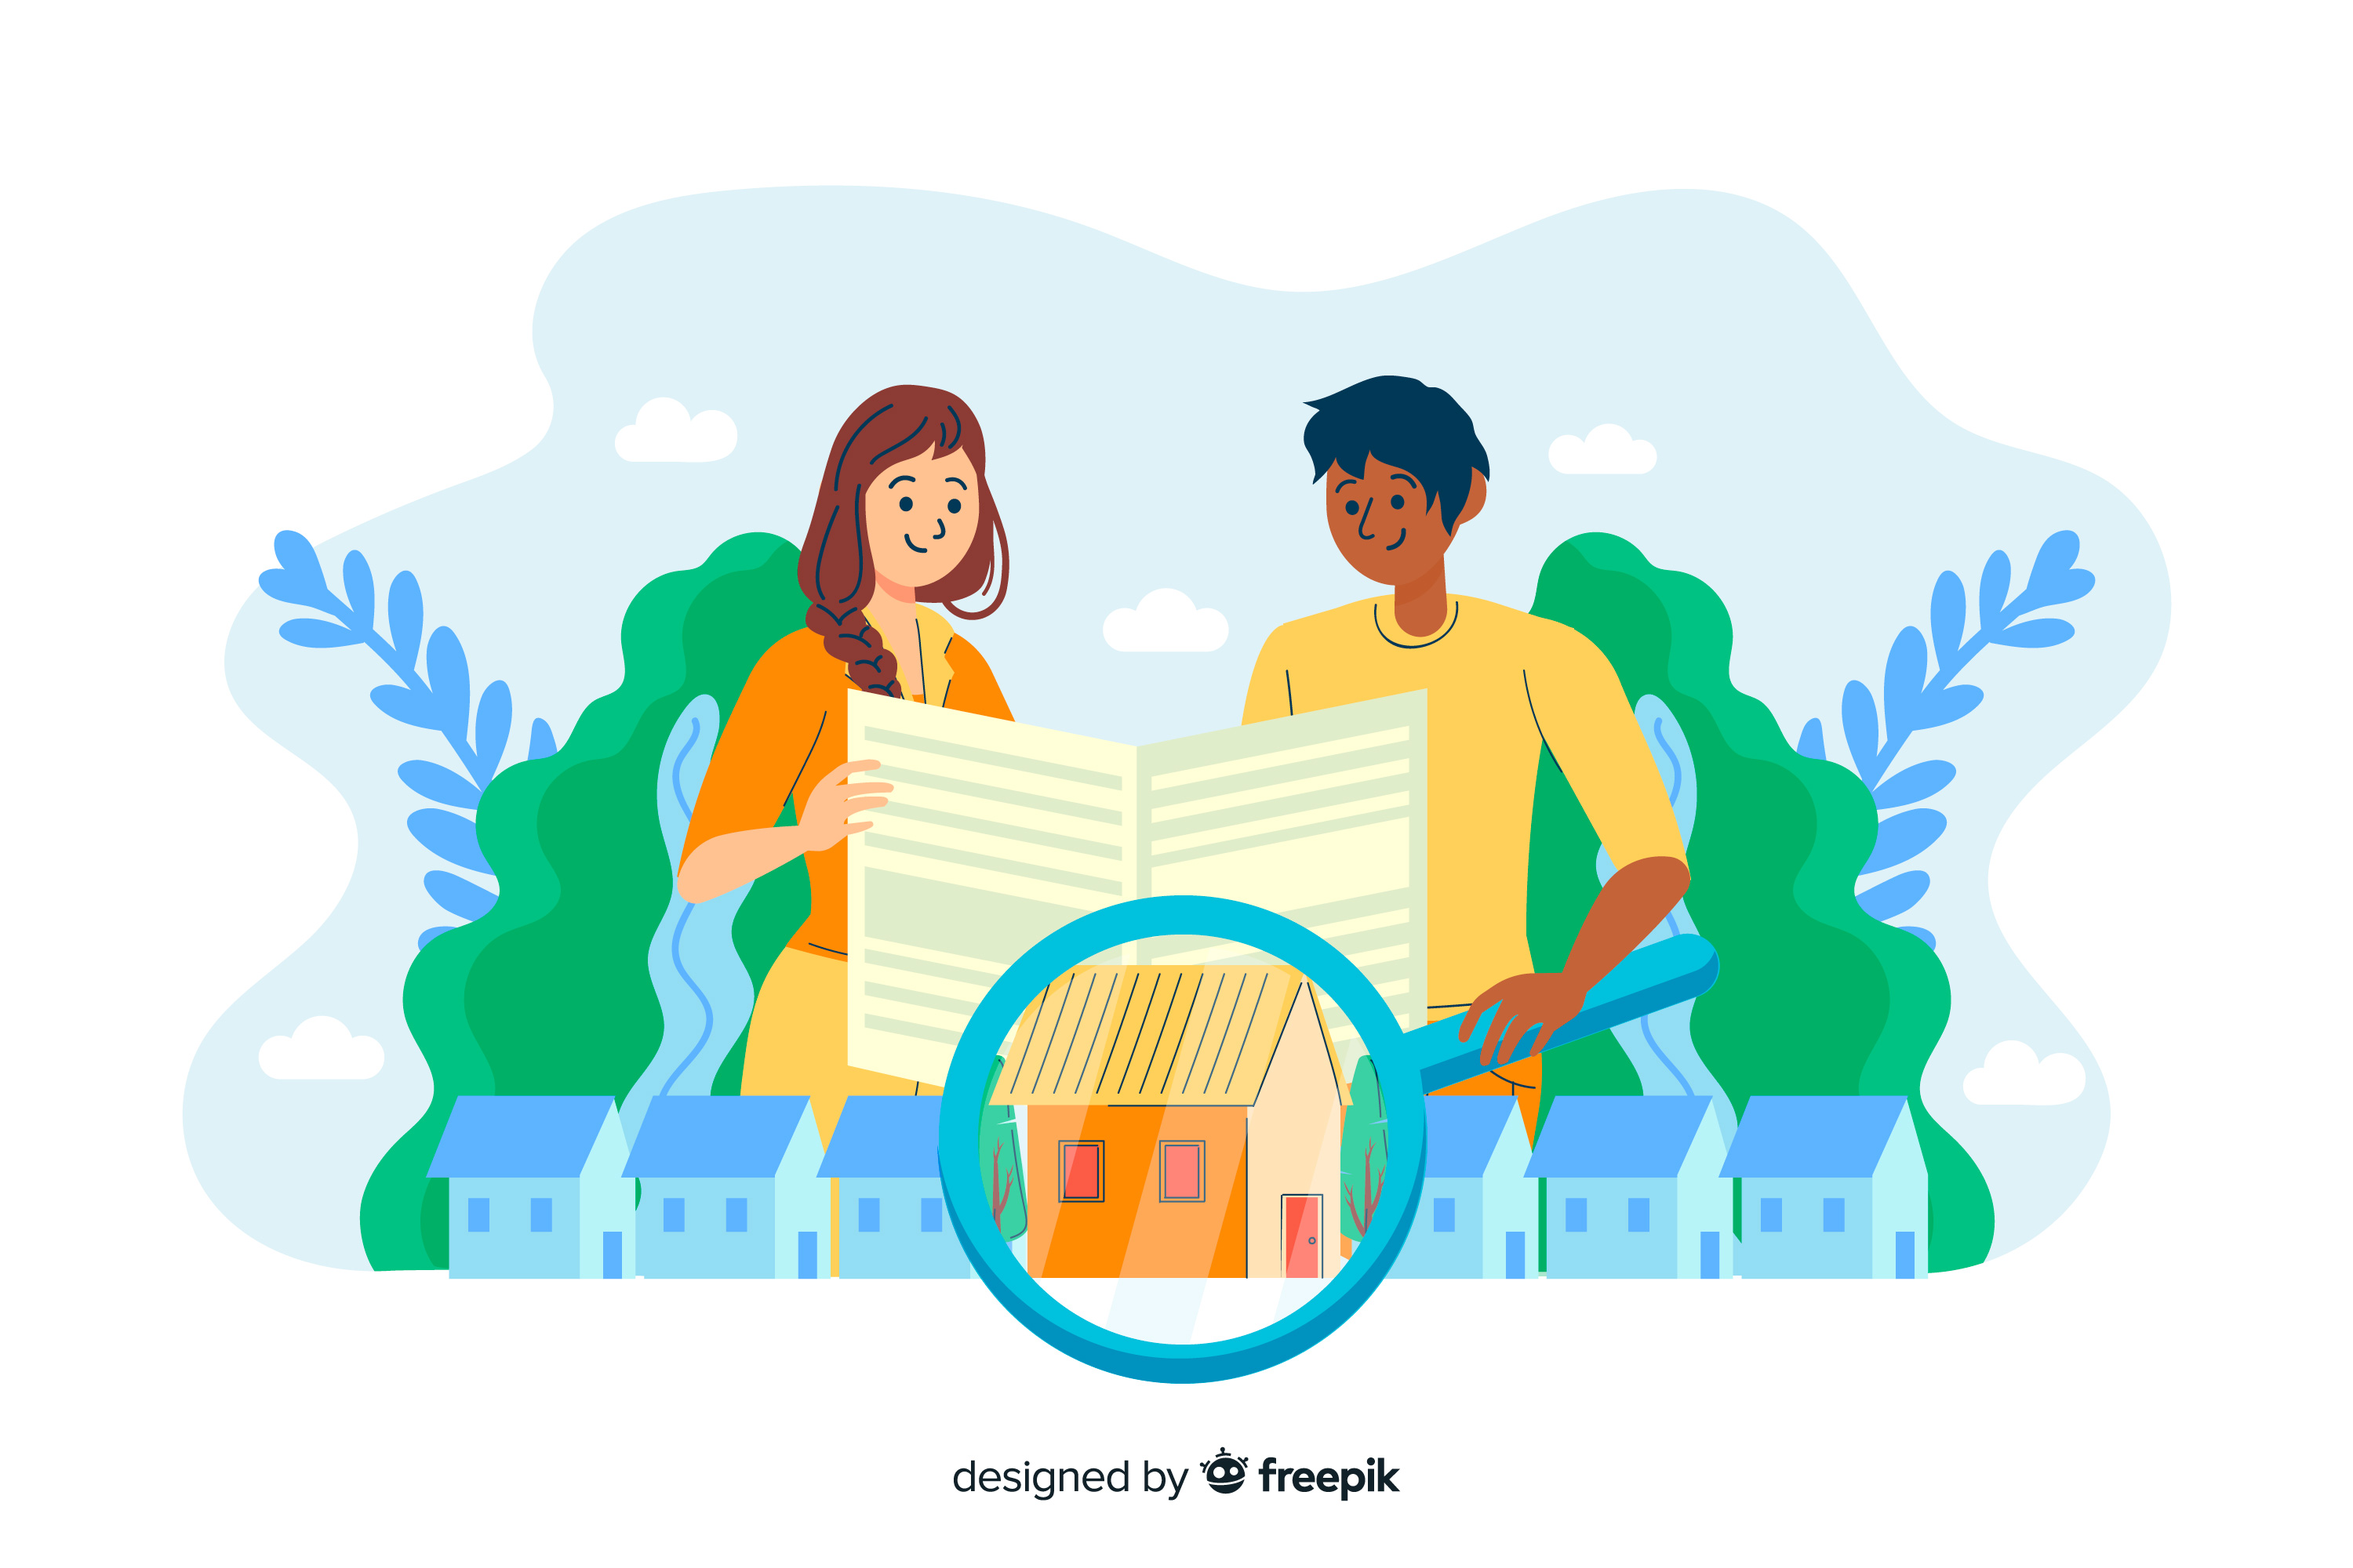
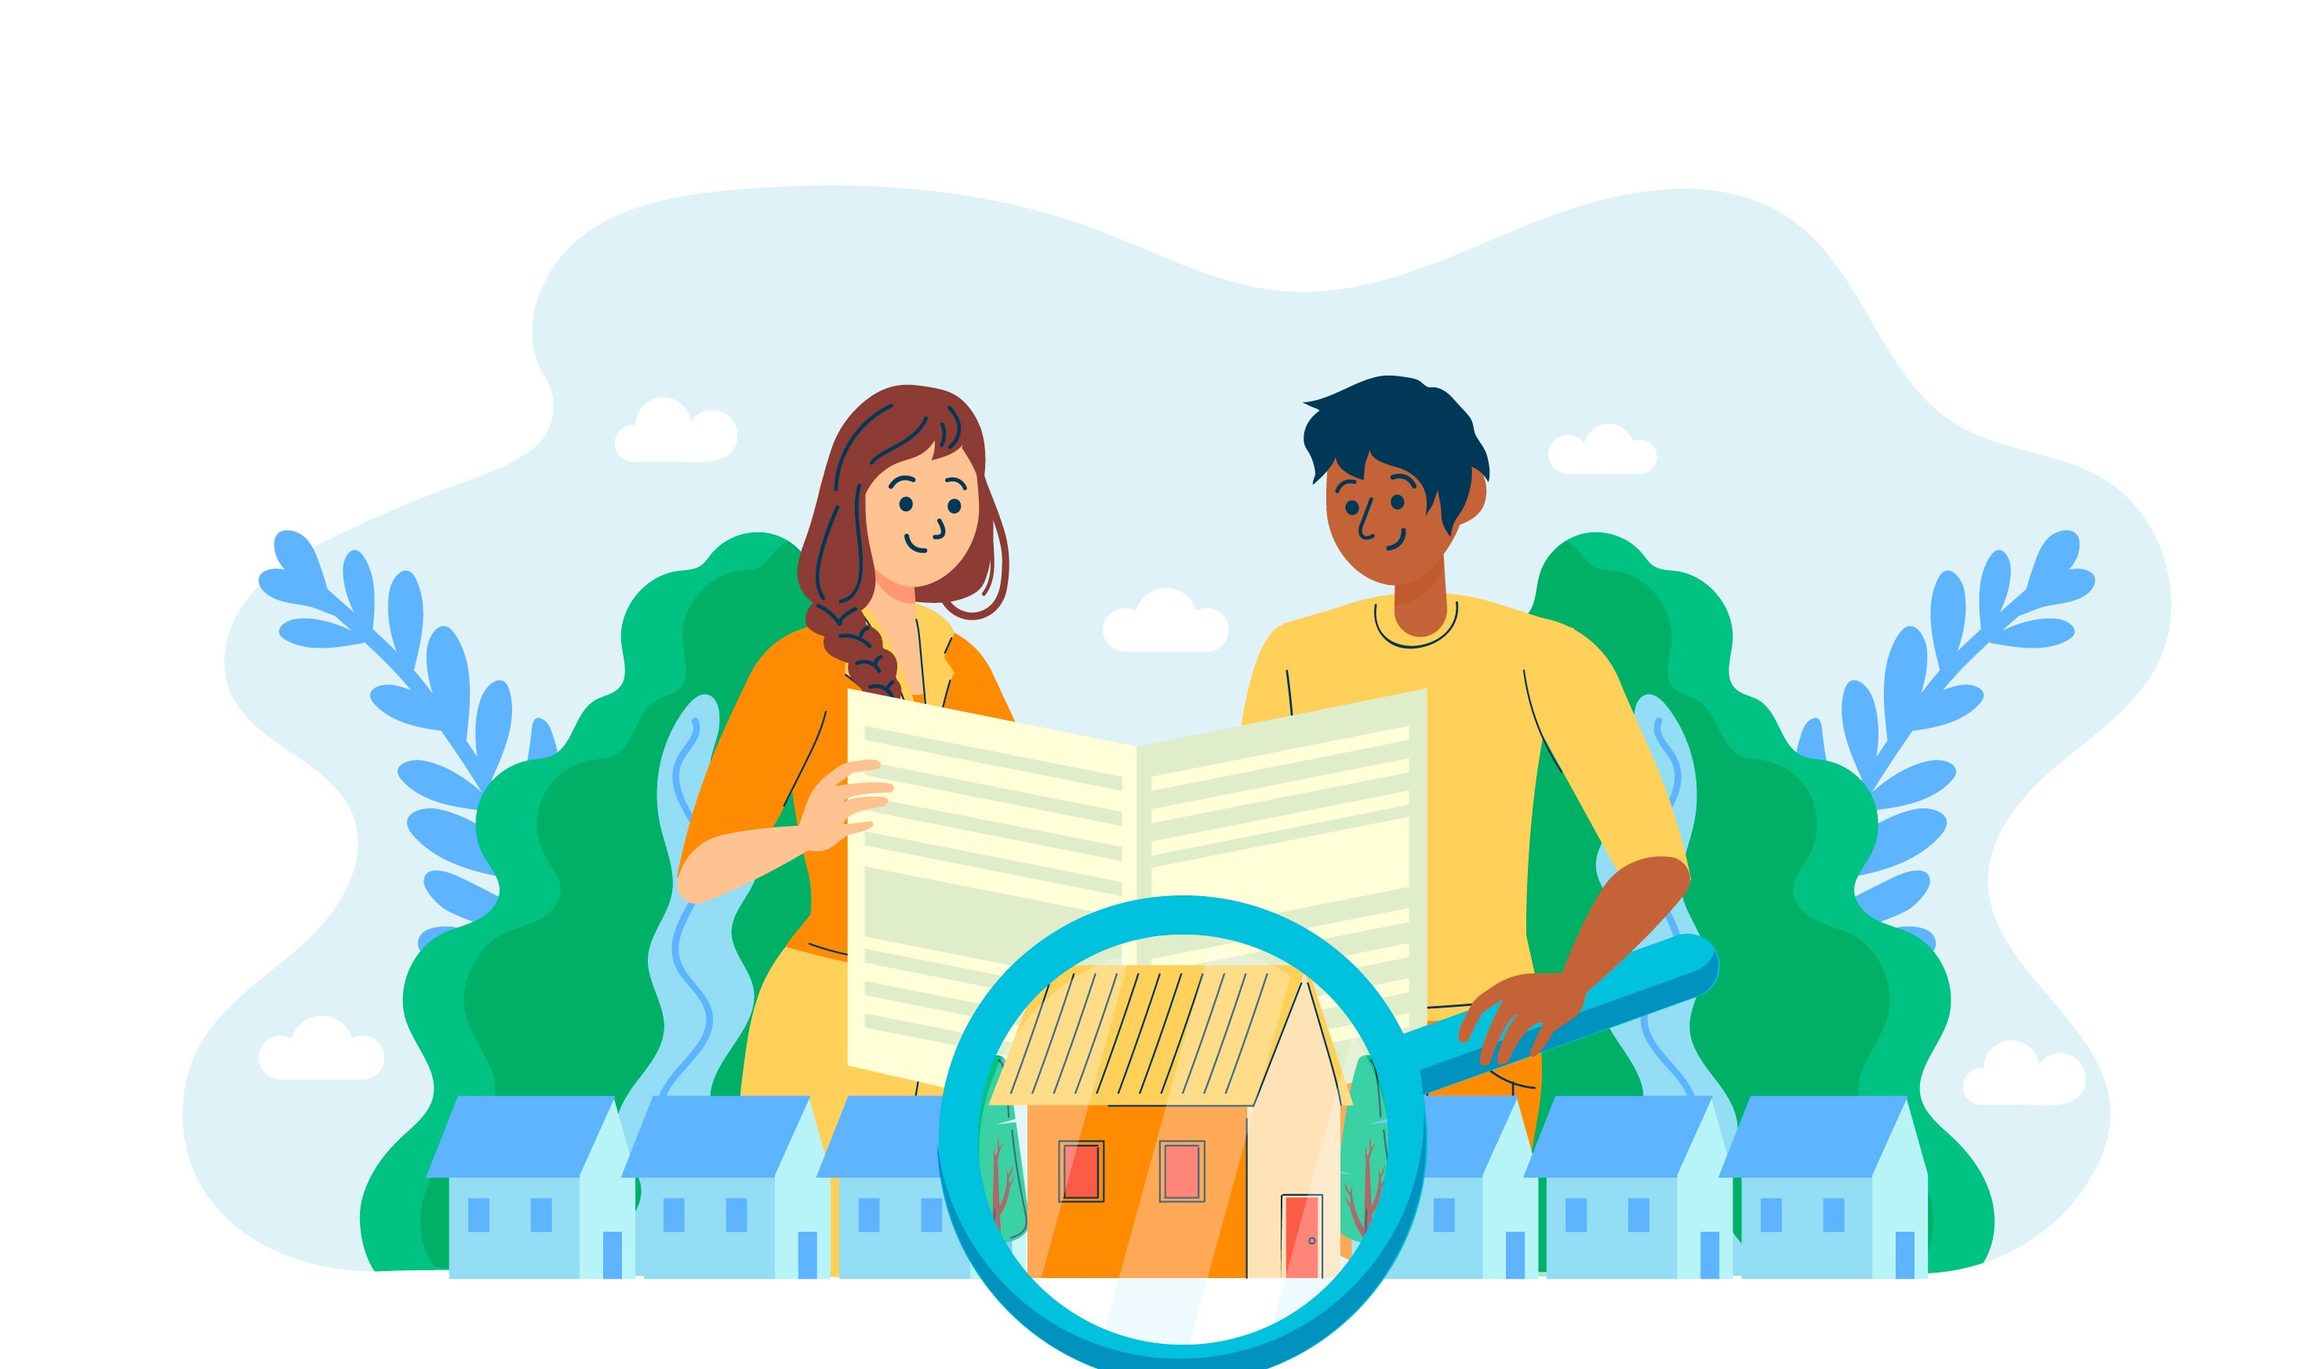
Payhere added again

diff --git a/app/controllers/Books.php b/app/controllers/Books.php
@@ -57,7 +57,83 @@ class Books extends Controller
         $this->view('books/v_booktoken', $data);
 
     }
+    public function tokenpayment(){
+        $data = [];
+        $this->view('books/v_booktokenpay', $data);
+
+    }
    
+    public function payherenotify() {
+        if ($_SERVER['REQUEST_METHOD'] === 'POST') {
+            try {
+                // Initialize payments model
+                $paymentModel = $this->model('M_Payments');
+    
+                // Retrieve and sanitize data
+                $paymentData = [
+                    'merchant_id' => trim($_POST["merchant_id"] ?? ''),
+                    'order_id' => trim($_POST["order_id"] ?? ''),
+                    'user_id' => trim($_POST["user_id"] ?? ''),
+                    'payment_id' => trim($_POST["payment_id"] ?? ''),
+                    'amount' => (float)($_POST["payhere_amount"] ?? 0),
+                    'currency' => trim($_POST["payhere_currency"] ?? 'LKR'),
+                    'status_code' => (int)($_POST["status_code"] ?? 0),
+                    'status' => trim($_POST["status"] ?? 'Pending'),
+                    'md5sig' => trim($_POST["md5sig"] ?? '')
+                ];
+    
+                // Get merchant secret from model
+                $merchantSecret = $paymentModel->getMerchantSecret();
+    
+                // Validate hash
+                $localHash = $this->generatePayhereHash(
+                    $paymentData['merchant_id'],
+                    $paymentData['order_id'],
+                    $paymentData['amount'],
+                    $paymentData['currency'],
+                    $paymentData['status_code'], // Include status code
+                    
+                );
+    
+                if ($this->validateSignature($localHash, $paymentData['md5sig'])) {
+                    if ($paymentData['status_code'] === 2) {
+                        $paymentRecord = [
+                            'order_id' => $paymentData['order_id'],
+                            'payment_id' => $paymentData['payment_id'],
+                            'user_id' => $paymentData['user_id'],
+                            'amount' => $paymentData['amount'],
+                            'currency' => $paymentData['currency'],
+                            'status' => $paymentData['status']
+                        ];
+
+                    }
+                    http_response_code(200);
+                } else {
+                    error_log("Hash mismatch. Received: {$paymentData['md5sig']} | Calculated: $localHash");
+                    http_response_code(403);
+                }
+            } catch (Exception $e) {
+                error_log("Payment error: " . $e->getMessage());
+                http_response_code(500);
+            }
+        } else {
+            http_response_code(405);
+        }
+    }
+    
+    private function generatePayhereHash($merchant_id, $order_id, $amount, $currency, $merchant_secret) {
+        return strtoupper(md5(
+            $merchant_id .
+            $order_id .
+            number_format($amount, 2, '.', '') .
+            $currency .
+            strtoupper(md5($merchant_secret))
+        ));
+    }
+    
+    private function validateSignature($generated, $received) {
+        return hash_equals($generated, $received);
+    }
     
     
     public function create()

diff --git a/app/views/books/v_booktokenpay.php b/app/views/books/v_booktokenpay.php
@@ -1,47 +1,51 @@
-<?php require APPROOT . '/views/inc/header.php'; ?>
-<!--TOP NAV BAR-->
-<?php require APPROOT . '/views/inc/components/topnavbar.php'; ?>
-
 <?php
-if (!isset($_SESSION['user_role'])) {
-    die("Please login");
+
+// Check if user is a logged-in parent
+if (!isset($_SESSION['user_role']) || $_SESSION['user_role'] !== 'parent') {
+    die("Access denied! You do not have permission to view this page.");
 }
+
+// Retrieve user details from session
+$merchant_id = "1230183";
+$merchant_secret = "MTMyNjg4MjE4NjI0OTYwOTkzNjIxMTE2OTQ2NDUyMTA2NTg2NDY0NQ==";
+
+// Retrieve parent/user details from session
+$order_id = uniqid();
+$user_id=$_SESSION['user_id'] ?? '';
+$amount = 200.00;
+$currency = "LKR";
+$items = "Token";
+$name = $_SESSION['user_name'] ?? '';
+$email = $_SESSION['user_email'] ?? '';
+$phone = $_SESSION['user_phone'] ?? '';
+$address = $_SESSION['user_address'] ?? '';
+
+// Generate hash (using session data)
+$hash = strtoupper(
+    md5(
+        $merchant_id .
+        $order_id .
+        number_format($amount, 2, '.', '') .
+        $currency .
+        strtoupper(md5($merchant_secret))
+    )
+);
+
+// Prepare response
+$response = [
+    "merchant_id" => $merchant_id,
+    "order_id" => $order_id,
+    "user_id"=>$user_id,
+    "items" => $items,
+    "amount" => $amount,
+    "currency" => $currency,
+    "hash" => $hash,
+    "name" => $name,
+    "email" => $email,
+    "phone" => $phone,
+    "address" => $address
+];
+
+header('Content-Type: application/json');
+echo json_encode($response);
 ?>
-<div class="addbook-container">
-    <div class="addbook-photo">
-        <h3>Buy token and buy tokens for any book transactions</h3>
-        <br>
-
-        <img src="/musebookstore/public/img/books/new.avif" alt="Book Reading image">
-
-    </div>
-
-    <div class="addbook-box">
-
-        <form action="<?php echo URLROOT; ?>/Books/makePayment" method="post" enctype="multipart/form-data">
-
-
-            <label>Cardholder Name</label>
-            <input type="text" name="cardname" value="<?php echo $data['cardname']; ?>">
-            <span class="error"><?php echo $data['cardnameError']; ?></span>
-
-            <label>Card Number</label>
-            <input type="text" name="cardnumber" value="<?php echo $data['cardnumber']; ?>">
-            <span class="error"><?php echo $data['cardnumberError']; ?></span>
-
-            <label>CVN</label>
-            <input type="text" name="cvn" value="<?php echo $data['cvn']; ?>">
-            <span class="error"><?php echo $data['cvnError']; ?></span>
-
-            <label>Amount</label><br>
-            <input type="text" name="amount" id="amount" value="200" readonly required>
-            <br>
-
-            <br>
-
-            <button type="submit" name="add-book-btn" class="add-book-btn">Add Book</button>
-
-        </form>
-    </div>
-</div>
-<?php require APPROOT . '/views/inc/footer.php'; ?>

diff --git a/app/views/books/v_booktoken.php b/app/views/books/v_booktoken.php
@@ -10,7 +10,6 @@ if (!isset($_SESSION['user_role']) || $_SESSION['user_role'] !== 'parent') {
 ?>
 <div class="booktoken-container">
     <main>
-    <?php flash('payment_message'); ?>
         <h2 class="main-title">
             <center>Buy tokens for unlimited book swappings</center>
         </h2>
@@ -53,7 +52,7 @@ if (!isset($_SESSION['user_role']) || $_SESSION['user_role'] !== 'parent') {
                         Get reward points
                     </li>
                 </ul>
-                <a class="cta highlight" href="<?php echo URLROOT?>/books/makePayment" >
+                <a class="cta highlight" href="#" onclick="paymentGateway(event)">
                     Purchase Token
                 </a>
 
@@ -61,3 +60,52 @@ if (!isset($_SESSION['user_role']) || $_SESSION['user_role'] !== 'parent') {
         </div>
     </main>
 </div>
+
+<script src="https://www.payhere.lk/lib/payhere.js"></script>
+<script>
+    function paymentGateway() {
+    var xhttp = new XMLHttpRequest();
+    xhttp.onreadystatechange = () => {
+        if (xhttp.readyState == 4 && xhttp.status == 200) {
+            var obj = JSON.parse(xhttp.responseText);
+
+            var payment = {
+                "sandbox": true,
+                "merchant_id": obj.merchant_id,
+                "return_url": "<?php echo URLROOT; ?>/books/bookhistory",
+                "cancel_url": "<?php echo URLROOT?>/books/bookhistory",
+                "notify_url": "<?php echo URLROOT?>/books/payherenotify",
+                "order_id": obj.order_id,
+                "items": obj.items,
+                "amount": obj.amount,
+                "currency": obj.currency,
+                "hash": obj.hash,
+                "first_name": obj.first_name,
+                "last_name": obj.last_name,
+                "email": obj.email,
+                "phone": obj.phone,
+                "address": obj.address,
+                "city": obj.city,
+                "country": "Sri Lanka"
+            };
+
+            payhere.onCompleted = function(orderId) {
+                alert("Payment completed. OrderID: " + orderId);
+            };
+
+            payhere.onDismissed = function() {
+                alert("Payment dismissed.");
+            };
+
+            payhere.onError = function(error) {
+                alert("Error: " + error);
+            };
+
+            payhere.startPayment(payment);
+        }
+    };
+    xhttp.open("GET", "<?php echo URLROOT; ?>/books/tokenpayment", true);
+    xhttp.send();
+}
+
+</script>

diff --git a/app/views/books/v_create.php b/app/views/books/v_create.php
@@ -187,10 +187,10 @@ if (!isset($_SESSION['user_role'])) {
 
             <label>Is book child safe</label>
             <select class="childsafe" name="childsafe" required>
-                <option value="true" <?php if ($data['childsafe'] == 'Yes') 'true';?>>
+                <option value="yes" <?php if ($data['childsafe'] == 'yes') 'selected';?>>
                     Yes
                 </option>
-                <option value="false" <?php if ($data['childsafe'] == 'No') 'false';?>>
+                <option value="no" <?php if ($data['childsafe'] == 'no') 'selected';?>>
                     No
                 </option>
 

diff --git a/app/views/books/v_token.php b/app/views/books/v_token.php
@@ -1,0 +1,14 @@
+<?php require APPROOT . '/views/inc/header.php'; ?>
+<?php require APPROOT . '/views/inc/components/topnavbar.php'; ?>
+
+<?php require APPROOT . '/views/inc/components/parent/sidebar.php'; ?>
+
+<?php
+if (!isset($_SESSION['user_role']) || $_SESSION['user_role'] !== 'parent') {
+    die("Access denied! You do not have permission to view this page.");
+}
+?>
+
+<h1>Hii</h1>
+<p>Tokens <strong><?php echo $data['token']->token_count; ?></strong></p>
+<p><?php echo $data['book']->book_count?></p>

diff --git a/app/models/M_Books.php b/app/models/M_Books.php
@@ -45,7 +45,7 @@ class M_Books{
     }
     public function getChildBooks($limit = null) {
         if ($limit) {
-            $this->db->query("SELECT * FROM book WHERE child_safe = 'Yes' ORDER BY created_at DESC LIMIT :limit");
+            $this->db->query("SELECT * FROM book WHERE child_safe = 'yes' ORDER BY book_author LIMIT :limit");
             $this->db->bind(':limit', $limit);
         } else {
             $this->db->query('SELECT * FROM book ORDER BY created_at DESC');

diff --git a/app/views/pages/child/v_articles.php b/app/views/pages/child/v_articles.php
@@ -226,4 +226,3 @@
 </div>
 
 <?php require APPROOT.'/views/inc/footer.php'; ?>
->>>>>>> dd8dada7a02c1d4dd1cc36f10b604a5265d1b3fa
